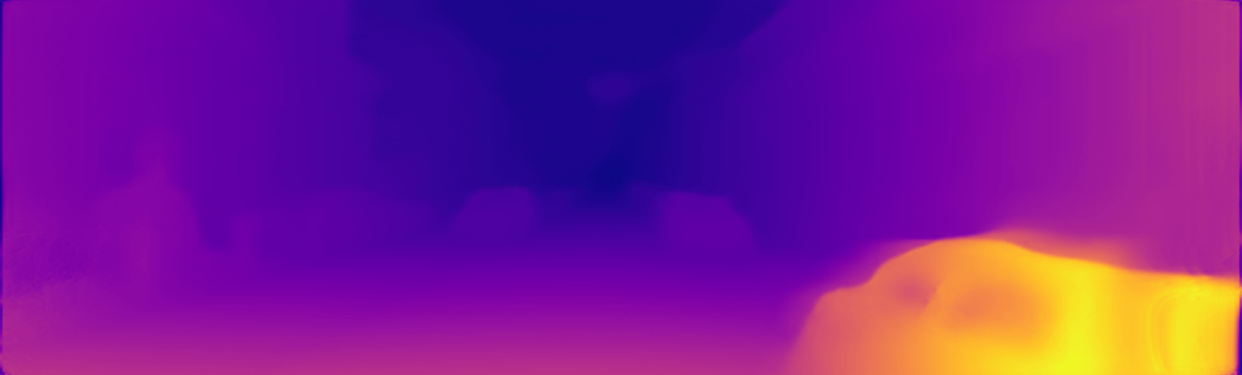
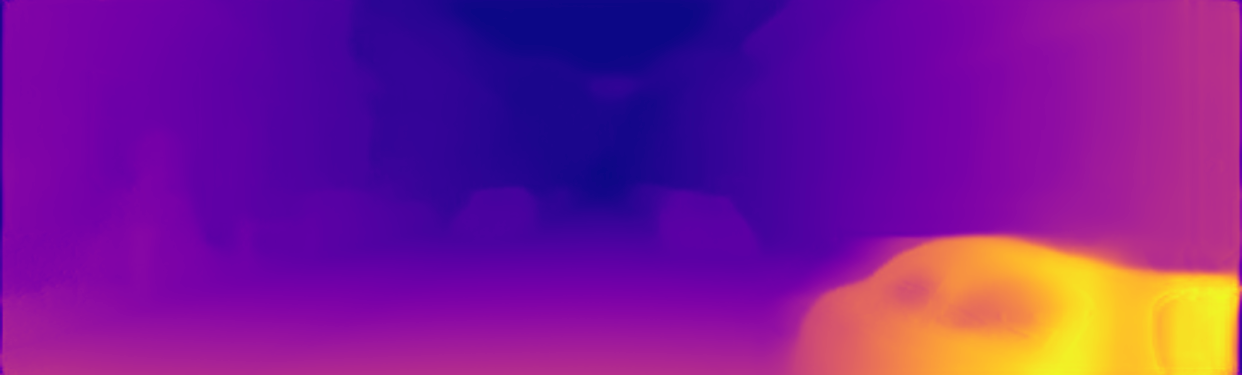
Updated to resnet and cv

diff --git a/depth/depth_simple.py b/depth/depth_simple.py
@@ -11,7 +11,7 @@ import time
 import tensorflow as tf
 import tensorflow.contrib.slim as slim
 import imageio
-import scipy.misc
+import cv2
 import matplotlib.pyplot as plt
 
 from depth_model import *
@@ -20,7 +20,7 @@ from average_gradients import *
 
 parser = argparse.ArgumentParser(description='Depth TensorFlow implementation.')
 
-parser.add_argument('--encoder',          type=str,   help='type of encoder, vgg or resnet50', default='vgg')
+parser.add_argument('--encoder',          type=str,   help='type of encoder, resnet50', default='resnet50')
 parser.add_argument('--image_path',       type=str,   help='path to the image', required=True)
 parser.add_argument('--checkpoint_path',  type=str,   help='path to a specific checkpoint to load', required=True)
 parser.add_argument('--input_height',     type=int,   help='input height', default=256)
@@ -44,9 +44,10 @@ def test_simple(params):
     left  = tf.placeholder(tf.float32, [2, args.input_height, args.input_width, 3])
     model = DepthModel(params, "test", left, None)
 
-    input_image = imageio.imread(args.image_path, pilmode="RGB")
+    input_image = cv2.imread(args.image_path)
+    input_image = cv2.cvtColor(input_image, cv2.COLOR_BGR2RGB)
     original_height, original_width, num_channels = input_image.shape
-    input_image = scipy.misc.imresize(input_image, [args.input_height, args.input_width], interp='lanczos')
+    input_image = cv2.resize(input_image, dsize = (args.input_width, args.input_height))
     input_image = input_image.astype(np.float32) / 255
     input_images = np.stack((input_image, np.fliplr(input_image)), 0)
 
@@ -74,7 +75,7 @@ def test_simple(params):
     output_name = os.path.splitext(os.path.basename(args.image_path))[0]
 
     np.save(os.path.join(output_directory, "{}_disp.npy".format(output_name)), disp_pp)
-    disp_to_img = scipy.misc.imresize(disp_pp.squeeze(), [original_height, original_width])
+    disp_to_img = cv2.resize(disp_pp.squeeze(), dsize = (original_width, original_height))
     plt.imsave(os.path.join(output_directory, "{}_disp.png".format(output_name)), disp_to_img, cmap='plasma')
 
     print('done!')

diff --git a/depth/depth_dataloader.py b/depth/depth_dataloader.py
@@ -25,15 +25,10 @@ class DepthDataloader(object):
 
         split_line = tf.string_split([line]).values
 
-        # we load only one image for test, except if we trained a stereo model
-        if mode == 'test' and not self.params.do_stereo:
+        # we load only one image for test
+        if mode == 'test':
             left_image_path  = tf.string_join([self.data_path, split_line[0]])
             left_image_o  = self.read_image(left_image_path)
-        else:
-            left_image_path  = tf.string_join([self.data_path, split_line[0]])
-            right_image_path = tf.string_join([self.data_path, split_line[1]])
-            left_image_o  = self.read_image(left_image_path)
-            right_image_o = self.read_image(right_image_path)
 
         if mode == 'train':
             # randomly flip images
@@ -57,10 +52,6 @@ class DepthDataloader(object):
         elif mode == 'test':
             self.left_image_batch = tf.stack([left_image_o,  tf.image.flip_left_right(left_image_o)],  0)
             self.left_image_batch.set_shape( [2, None, None, 3])
-
-            if self.params.do_stereo:
-                self.right_image_batch = tf.stack([right_image_o,  tf.image.flip_left_right(right_image_o)],  0)
-                self.right_image_batch.set_shape( [2, None, None, 3])
 
     def augment_image_pair(self, left_image, right_image):
         # randomly shift gamma
@@ -93,12 +84,6 @@ class DepthDataloader(object):
         file_cond = tf.equal(file_extension, 'jpg')
 
         image  = tf.cond(file_cond, lambda: tf.image.decode_jpeg(tf.read_file(image_path)), lambda: tf.image.decode_png(tf.read_file(image_path)))
-
-        # if the dataset is cityscapes, we crop the last fifth to remove the car hood
-        if self.dataset == 'cityscapes':
-            o_height    = tf.shape(image)[0]
-            crop_height = (o_height * 4) // 5
-            image  =  image[:crop_height,:,:]
 
         image  = tf.image.convert_image_dtype(image,  tf.float32)
         image  = tf.image.resize_images(image,  [self.params.height, self.params.width], tf.image.ResizeMethod.AREA)

diff --git a/depth/depth_model.py b/depth/depth_model.py
@@ -299,15 +299,3 @@ class DepthModel(object):
                 tf.summary.image('disp_left_est_' + str(i), self.disp_left_est[i], max_outputs=4, collections=self.model_collection)
                 tf.summary.image('disp_right_est_' + str(i), self.disp_right_est[i], max_outputs=4, collections=self.model_collection)
 
-                if self.params.full_summary:
-                    tf.summary.image('left_est_' + str(i), self.left_est[i], max_outputs=4, collections=self.model_collection)
-                    tf.summary.image('right_est_' + str(i), self.right_est[i], max_outputs=4, collections=self.model_collection)
-                    tf.summary.image('ssim_left_'  + str(i), self.ssim_left[i],  max_outputs=4, collections=self.model_collection)
-                    tf.summary.image('ssim_right_' + str(i), self.ssim_right[i], max_outputs=4, collections=self.model_collection)
-                    tf.summary.image('l1_left_'  + str(i), self.l1_left[i],  max_outputs=4, collections=self.model_collection)
-                    tf.summary.image('l1_right_' + str(i), self.l1_right[i], max_outputs=4, collections=self.model_collection)
-
-            if self.params.full_summary:
-                tf.summary.image('left',  self.left,   max_outputs=4, collections=self.model_collection)
-                tf.summary.image('right', self.right,  max_outputs=4, collections=self.model_collection)
-

diff --git a/depth/depth_main.py b/depth/depth_main.py
@@ -19,7 +19,7 @@ parser = argparse.ArgumentParser(description='Depth TensorFlow implementation.')
 
 parser.add_argument('--mode',                      type=str,   help='train or test', default='train')
 parser.add_argument('--model_name',                type=str,   help='model name', default='depth')
-parser.add_argument('--encoder',                   type=str,   help='type of encoder, vgg or resnet50', default='vgg')
+parser.add_argument('--encoder',                   type=str,   help='type of encoder, resnet50', default='resnet50')
 parser.add_argument('--dataset',                   type=str,   help='dataset to train on, kitti, or cityscapes', default='kitti')
 parser.add_argument('--data_path',                 type=str,   help='path to the data', required=True)
 parser.add_argument('--filenames_file',            type=str,   help='path to the filenames text file', required=True)

diff --git a/preprocessing.py b/preprocessing.py
@@ -35,16 +35,20 @@ def preprocess(img):
     prep_img = resized_img
     return prep_img
 
-
 # Run the preprocessing functions on a single image with before and after
 # Escape Key terminates the windows
+# The output of the file can be written to a file by setting output param
 # Params
 #   file: Filename of the image as string
 #   waitTime: How long the image should be shown in ms
+#   output: Write the preprocessed file here
 # Returns: false if terminated using Esc key else true
-def preprocess_single(file, waitTime = 0):
+def preprocess_single(file, waitTime = 0, output = ""):
     img = cv2.imread(file)
     prep_img = preprocess(img)
+
+    if output:
+        cv2.imwrite(output, prep_img)
 
     cv2.imshow("Original Image", img)
     cv2.imshow("Preprocessed Image", prep_img)
